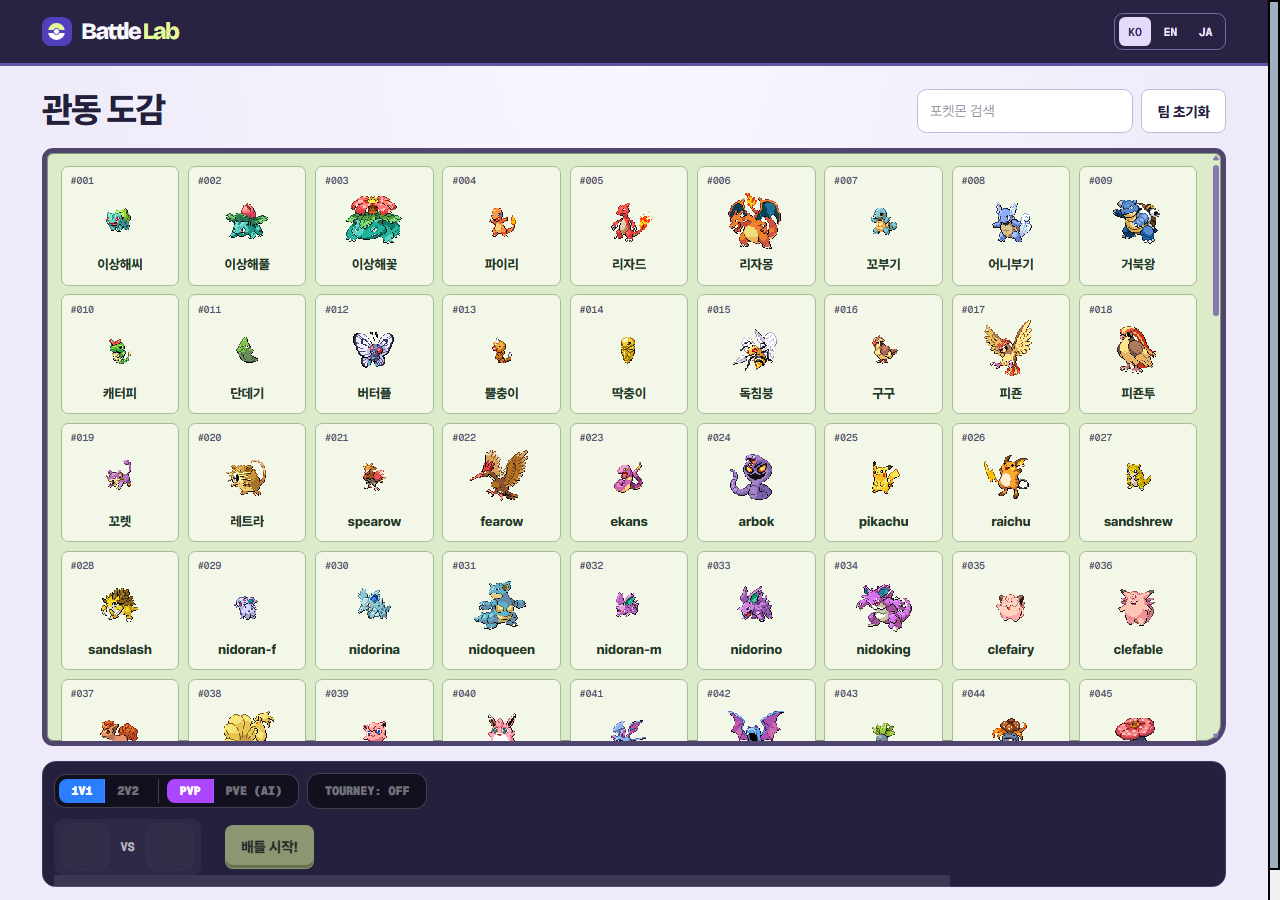
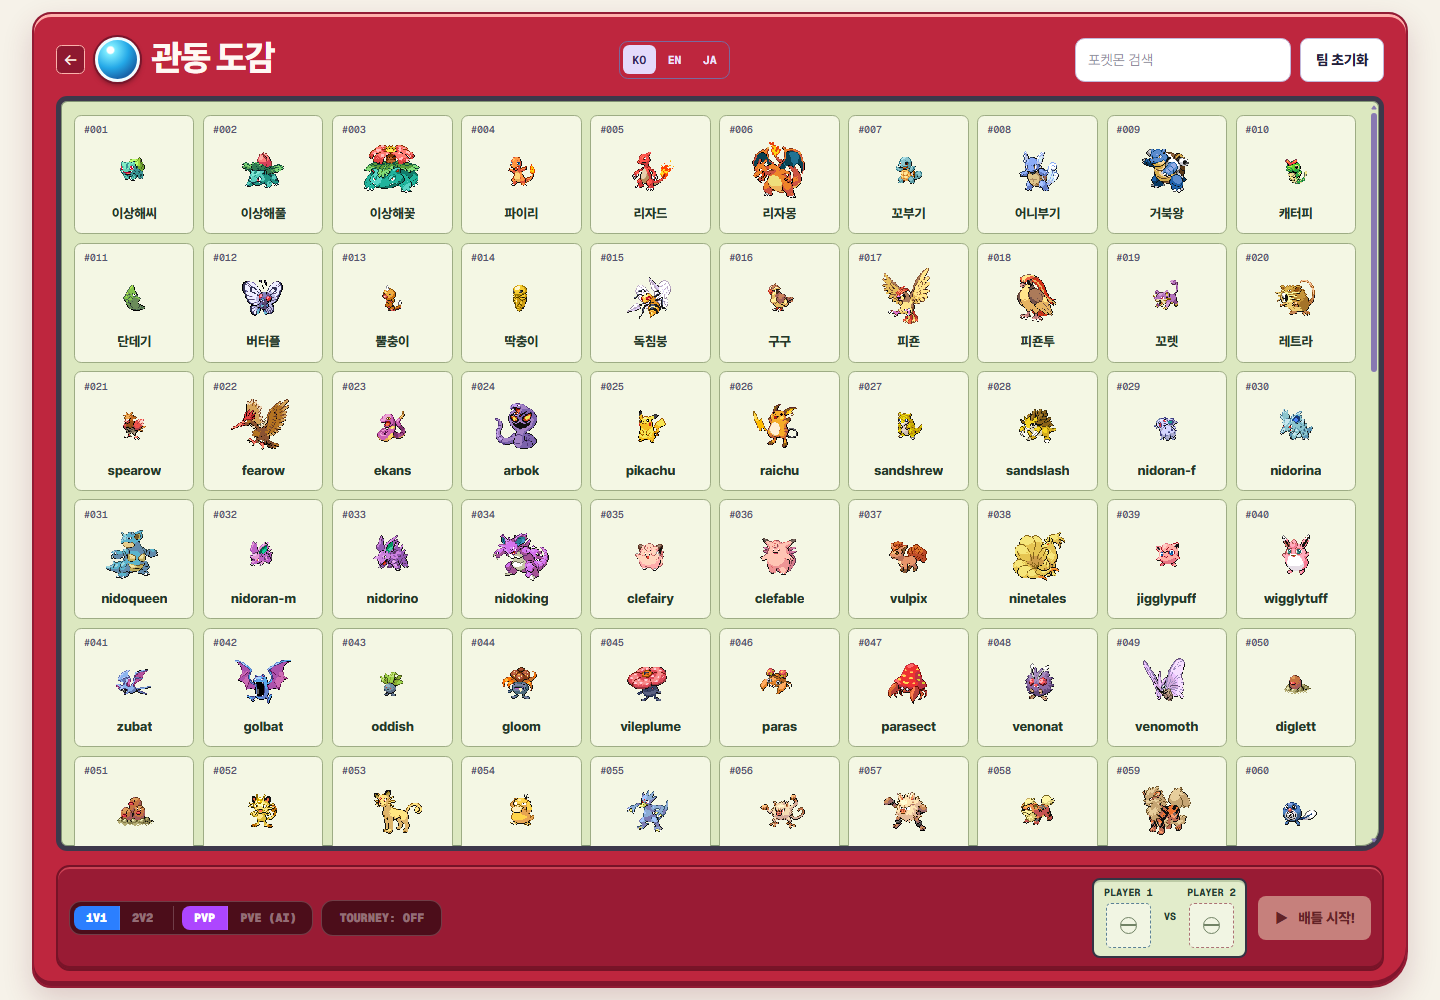
도감 화면 확대 및 README 이미지 갱신

diff --git a/src/components/HomeContent.tsx b/src/components/HomeContent.tsx
@@ -110,7 +110,7 @@ export default function HomeContent() {
           <section className={styles.feature} aria-labelledby="region-title">
             <div className={styles.stage}>
               <div className={styles.map}>
-                <Image src={selectedRegion.bgUrl} alt={t('{{region}} map', { region: t(selectedRegion.nameKey) })} fill sizes="(max-width: 760px) 100vw, 780px" />
+                <Image src={selectedRegion.bgUrl} alt={t('{{region}} map', { region: t(selectedRegion.nameKey) })} fill sizes="(max-width: 680px) 100vw, (max-width: 1360px) 60vw, 770px" />
               </div>
               <div className={styles.stageContent}>
                 <div className={styles.starters} aria-hidden="true">

diff --git a/src/components/HomeContent.module.css b/src/components/HomeContent.module.css
@@ -1,12 +1,12 @@
 .home {
   flex: 1;
-  padding: clamp(0.65rem, 3vw, 2.25rem);
+  padding: clamp(0.65rem, 2vw, 1.5rem);
   background: #f6f2e9;
   color: #fff5e9;
 }
 
 .shell {
-  width: min(100%, 65rem);
+  width: min(100%, 82rem);
   margin-inline: auto;
   padding: clamp(0.65rem, 2.6vw, 1.6rem);
   border: 2px solid #7e1429;
@@ -146,7 +146,7 @@
 .stage {
   display: grid;
   height: 100%;
-  grid-template-rows: minmax(12rem, 1fr) auto;
+  grid-template-rows: minmax(clamp(12rem, 45svh, 29rem), 1fr) auto;
   overflow: hidden;
   border: 2px solid #333940;
   border-radius: 0.3rem;

diff --git a/app/design.css b/app/design.css
@@ -257,6 +257,7 @@ button:not(:disabled) { cursor: pointer; }
 .lab-home-footer { border-top: 1px solid var(--lab-border); margin-top: 1.5rem; padding-top: 1rem; color: var(--lab-muted); font-size: 0.78rem; }
 
 .lab-dex {
+  width: min(100% - 1.5rem, 86rem);
   height: max(36rem, calc(100dvh - 1.5rem));
   margin-block: 0.75rem;
   display: flex;

diff --git a/README.md b/README.md
@@ -30,7 +30,7 @@ npm run build  # 프로덕션 빌드
 
 <table align="center">
   <tr>
-    <td align="center"><b>배틀 메뉴</b><br/><img src="public/screenshots/home.png" width="400"/></td>
+    <td align="center"><b>포켓몬 도감 홈</b><br/><img src="public/screenshots/home.png" width="400"/></td>
     <td align="center"><b>지역 도감과 팀 편성</b><br/><img src="public/screenshots/region.png" width="400"/></td>
   </tr>
   <tr>
